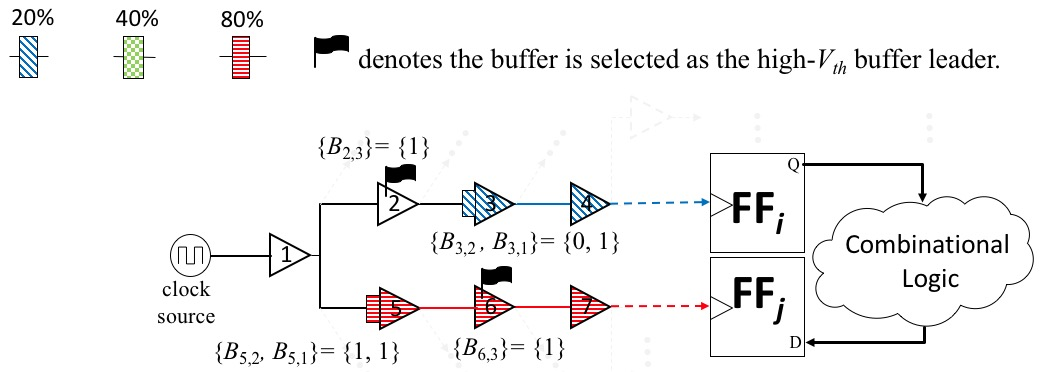
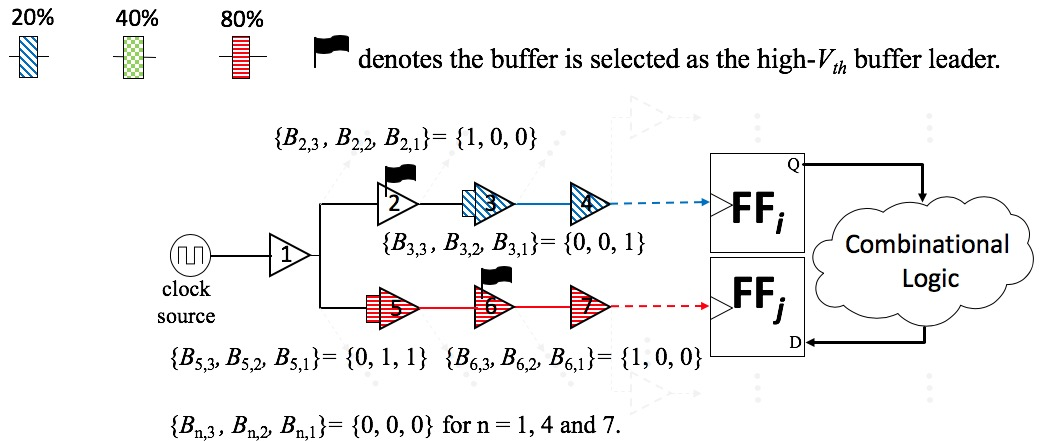
18/7/26 Modification after meeting: Use HTH aging model, renew flow chart, add Boolean variable in example fig...

diff --git a/DATE2018/framework.tex b/DATE2018/framework.tex
@@ -5,7 +5,7 @@ The overall flow of the proposed framework is depicted in Figure~\ref{fig:flow},
 \begin{enumerate}[leftmargin=*]
 	\item \textbf{Minimization of clock period:} The clock period can be minimized since the performance degradation of the logic circuit is \enquote{tolerated} as a result of useful clock skews. The minimum required clock period thus implies maximum level of aging tolerance. As depicted in Figure~\ref{fig:flow}, a binary search for optimal clock period is involved in the proposed framework.
 	\item \textbf{DCC deployment:} The problem of  DCC deployment is formulated as a Boolean Satisfiability (SAT) problem. Therefore, the key of our framework is to represent the problem in \textit{conjunctive normal form} (CNF). A CNF representation is a conjunction of one or more clauses, where each clause is a disjunction of one or more Boolean variables. Thanks to the efficiency of existing SAT solvers, the solution can be obtained efficiently. The end result of this formulation is the locations (in the existing clock tree) of DCCs, such that the required clock period of the given circuit under $n$-year BTI is minimized when aging-induced clock skews are considered. 
-	\item \textbf{High-$V_{th}$ assignment for clock buffers:} The problem of high-$V_{th}$ assignments for clock buffers is also formulated as a SAT-based problem, represented in CNF and solved by existing SAT solvers.
+	\item \textbf{High-$V_{th}$ assignment for clock buffers:} The problem of high-$V_{th}$ assignment for clock buffers is also formulated as a SAT-based problem, represented in CNF and solved by existing SAT solvers.
 \end{enumerate}
 
 \begin{figure}
@@ -127,8 +127,7 @@ where $C_{i\_aged}$ and $C_{j\_aged}$ denote aged $C_i$ and $C_j$, respectively.
 
 \noindent \textbf{\uline{Timing constraint: No existence of timing violation}}
 
-Given one clock period $T_c$ derived by binary search, one aging-critical path, and its associated clock network, all possible DCC deployments can be classified into 3 classes according to the number of DCCs used. Furthermore, due to the aforementioned DCC constraints, the SAT solver will only output a DCC deployment where there does not exist more than one DCC along any clock path. Thus, in the following discussion, the deployment with more than one DCC along a single clock path can be ignored. In each class, if the DCC deployment causes a timing violation within 10 years (i.e., the lifespan specification), then the deployment will be transformed into CNF clauses, such that the solver will not output the deployment as results. Here, we explain the generation of CNF clauses by using the example in Figure~\ref{fig:dccinsert}.
-
+Given one clock period $T_c$ derived by binary search, one aging-critical path, and its associated clock network, all possible DCC deployments can be classified into 3 classes according to the number of DCCs used. Furthermore, due to the aforementioned DCC constraints, the SAT solver will only output a DCC deployment where there does not exist more than one DCC along any clock path. Thus, in the following discussion, the deployment with more than one DCC along a single clock path can be ignored. In each class, if the DCC deployment causes a timing violation within 10 years (i.e., the lifespan specification), then the deployment will be transformed into CNF clauses, such that the solver will not output the deployment as results. Here, we explain the generation of CNF clauses by using the example in Figure~\ref{fig:dccinsert}.\\
 
 \noindent \textbf{Class 1:} No DCC is inserted on either clock path
 
@@ -143,8 +142,7 @@ equivalent to the following CNF clause:
 \begin{gather*}
 \left(B_{1,2} \lor B_{1,1} \lor B_{2,2} \lor B_{2,1} \lor \dotsb \lor B_{7,2} \lor B_{7,1} \right),
 \end{gather*}}
-should be generated such that the solver will not output the corresponding deployment in the result if the CNF is satisfiable. In this case, a total of 1 CNF clause is generated.
-
+should be generated such that the solver will not output the corresponding deployment in the result if the CNF is satisfiable. In this case, a total of 1 CNF clause is generated.\\
 
 \noindent \textbf{Class 2:} Inserting one DCC
 
@@ -173,7 +171,7 @@ This class targets buffers 2, 3, 4, 5, 6, 7. If the insertion of a 20\% DCC at b
 \begin{gather*}
 	(B_{3,2} \lor \neg B_{3,1} \lor B_{1,2} \lor B_{1,1} \lor B_{2,2} \lor B_{2,1} \lor B_{3,2} \dotsb  
 \lor B_{7,2} \lor B_{7,1}),
-\end{gather*}}should be generated such that the solver will not output the deployment in the result if the CNF is satisfiable. This class includes 6 candidates: buffers 2, 3, 4, 5, 6, 7, and each has 3 choices of DCCs. Therefore, a total of 18 CNF clauses will be generated in the worst case.
+\end{gather*}}should be generated such that the solver will not output the deployment in the result if the CNF is satisfiable. This class includes 6 candidates: buffers 2, 3, 4, 5, 6, 7, and each has 3 choices of DCCs. Therefore, a total of 18 CNF clauses will be generated in the worst case.\\
 
 
 \noindent \textbf{Class 3:} Inserting two DCCs on two clock paths respectively
@@ -195,9 +193,9 @@ Considering all of the above cases, a maximum number of 1 + 3 + 18 + 81 = 103 cl
 
 \subsection{Additive Improvement in Aging Tolerance: High-$V_{th}$ Assignment for Clock Buffers}
 \label{sec:VTA}
-In this subsection, the approach of high-$V_{th}$ assignment for clock buffers is incorporated in the proposed framework to further improve the aging tolerability of designs. Because the fragmentary high-$V_{th}$ assignment for clock buffers may decrease the feasibility/manufacturability of the proposed framework, we make a rule/definition: 
+In this subsection, the approach of high-$V_{th}$ assignment for clock buffers is incorporated in the proposed framework to further improve the aging tolerability of designs. Because the fragmentary high-$V_{th}$ assignment for clock buffers may decrease the feasibility/manufacturability of the proposed framework, we make a rule/definition:
 
-\noindent \textbf{Definition:} Once a clock buffer is selected as the \uline{high-$V_{th}$ buffer leader}, the $V_{th}$ of the selected buffer and its downstream buffers will be assigned to high $V_{th}$.
+\noindent \textbf{\uline{Definition 1} (\textit{High-$V_{th}$ buffer leader}):} Once a clock buffer is selected as the \textit{high-$V_{th}$ buffer leader}, the $V_{th}$ of the selected buffer and its downstream buffers will be assigned to high $V_{th}$.
 
 In this way, we avoid the cases that the $V_{th}$ of serial buffers along a clock path interlace between high and nominal $V_{th}$. Such a rule can suppress the occurrence of fragmentary $V_{th}$ assignments for clock buffers and thus can increase the feasibility of the proposed framework.
 
@@ -213,14 +211,15 @@ The problem of selecting high-$V_{th}$ buffer leaders is also formulated as a SA
   	(2)\quad & None &20\% &  \{0, 0, 1\} \\ 
   	(3)\quad & None &40\% &  \{0, 1, 0\} \\ 
   	(4)\quad & None &80\% &  \{0, 1, 1\} \\ 
-	(5)\quad & High-$V_{th}$ ($V_{th}^h$) & None & \{1, 0, 0\} \\ 
-  	(6)\quad & $V_{th}^h$ & 20\% &  \{1, 0, 1\} \\ 
-  	(7)\quad & $V_{th}^h$ & 40\% &  \{1, 1, 0\} \\ 
-  	(8)\quad & $V_{th}^h$ & 80\% &  \{1, 1, 1\} \\ 
+	(5)\quad & High-$V_{th}$ & None & \{1, 0, 0\} \\ 
+  	(6)\quad & High-$V_{th}$ & 20\% &  \{1, 0, 1\} \\ 
+  	(7)\quad & High-$V_{th}$ & 40\% &  \{1, 1, 0\} \\ 
+  	(8)\quad & High-$V_{th}$ & 80\% &  \{1, 1, 1\} \\ 
 \end{tabular}}
 
 Note that, if the buffer, located deep in the clock tree, is selected as the leader, then the count of affected buffers is limited, diminishing the benefit from high-$V_{th}$ assignment for aging tolerance. Therefore, as we do for DCC deployment, we similarly set a rule of prohibiting selecting buffer leaders at a clock tree level larger/deeper than a a specified boundary.
 \subsection{Constraints on High-$V_{th}$ Assignment for Clock Buffers}
+\begin{comment}
 \begin{figure}
 	\centering
 	%\includegraphics[width=1\columnwidth]{All_types_of_DCCs_and_leaders.png} %IEEE
@@ -228,6 +227,7 @@ Note that, if the buffer, located deep in the clock tree, is selected as the lea
 	\caption{Generalized DCC insertion and high-$V_{th}$ buffer leader selection, for a target pair of flip-flops}
 	\label{fig:leadertype}
 \end{figure}
+\end{comment}
 \begin{figure}[t!]
     \centering
     %\includegraphics[width=1.0\columnwidth]{2DCC_2Leader.png} %IEEE
@@ -236,7 +236,9 @@ Note that, if the buffer, located deep in the clock tree, is selected as the lea
     \label{fig:2dcc2leader}
 \end{figure}
 
-Figure~\ref{fig:leadertype} shows a generalized example of DCC insertion and leader selection. It is worth reminding that, because of DCC constraints, the possibility count of DCC deployments has been dropped from 16,384 to 103. However, for each DCC deployment, there are still up to 128 ($2^7$) possibilities of leader selections, for this pair of flip-flops. Hence, we set up the following constraints on the selections of high-$V_{th}$ buffer leaders:
+%Figure~\ref{fig:leadertype} shows a generalized example of DCC insertion and leader selection. It is worth reminding that, because of DCC constraints, the possibility count of DCC deployments has been dropped from 16,384 to 103. However, for each DCC deployment, there are still up to 128 ($2^7$) possibilities of leader selections, for this pair of flip-flops. Hence, we set up the following constraints on the selections of high-$V_{th}$ buffer leaders:
+
+In order to suppress the occurrence of fragmentary high-$V_{th}$ assignment for clock buffers, the following constraints are incorporated in the framework, such that SAT solver will not output the corresponding $V_{th}$ assignment in the result if the CNF is satisfiable.
 
 \noindent \textbf{\uline{Leader constraints: At most one buffer on a single clock path is selected as high-$V_{th}$ buffer leader.}}
 

diff --git a/DATE2018/related.tex b/DATE2018/related.tex
@@ -1,8 +1,8 @@
-\section{RELATED WORK AND PAPER CONTRIBUTION}
+=\section{RELATED WORK AND PAPER CONTRIBUTION}
 \label{sec:related}
 \subsection{Previous Work on Aging-Aware Optimization}
 \label{subsec:rw}
-To deal with aging phenomena, traditional design methods adopt guard-banding by adding extra timing margins, which in practice imply over-design and may be expensive. To avoid overly conservatism, the mitigation of aging-induced performance degradation can be formulated as a timing-constrained area minimization problem with consideration of aging effects. Existing aging-aware techniques basically follow this formulation. A novel technology mapper considering signal probabilities for NBTI was developed in~\cite{kumar2007nbti}. On average, 10\% area recovery and 12\% power saving are accomplished, as compared to the most pessimistic case assuming static NBTI on all PMOS transistors in the design. The authors of~\cite{paul2006temporal} proposed a gate sizing algorithm based on Lagrangian relaxation. An average of 8.7\% area penalty is required to ensure reliable operation for 10 years. Other methods related to gate or transistor sizing can be found in~\cite{kang2007efficient},~\cite{yang2007combating}.
+To deal with aging phenomena, traditional design methods adopt guard-banding by adding extra timing margins, which in practice imply over-design and may be expensive. To avoid overly conservatism, the mitigation of aging-induced performance degradation can be formulated as a timing-constrained area minimization problem with consideration of aging effects. Existing aging-aware techniques basically follow this formulation. A novel technology mapper considering signal probabilities for NBTI was developed in~\cite{kumar2007nbti}. On average, 10\% area recovery and 12\% power saving are accomplished, as compared to the most pessimistic case assuming static NBTI on all PMOS transistors in the design. The authors of~\cite{paul2006temporal} proposed a gate sizing algorithm based on Lagrangian relaxation. An average of 8.7\% area penalty is required to ensure reliable operation for 10 years. Other methods related to gate or transistor sizing can be found in~\cite{kang2007efficient, yang2007combating}.
 
 Aforementioned methods focus on mitigating the aging of logic networks only. There are some works~\cite{huang2013low, chakraborty2013skew,chen2013novel} addressing the aging problem of clock networks. Methodology of~\cite{chen2013novel} is based on $V_{th}$ assignment for clock buffers. The authors of ~\cite{huang2013low} and ~\cite{chakraborty2013skew} explore the use of alternative clock gating cells for clock-gated designs. On the other hand, two new clock gating cells were presented in~\cite{lai2014bti} to balance the delay degradation of clock signal propagation, which reduces aging-induced clock skews between ungated and gated clock branches. The above works~\cite{huang2013low, chakraborty2013skew,chen2013novel,lai2014bti} aim to minimize aging-induced clock skew instead of making it useful (i.e., assign specific clock skews in the designs to mitigate the aging-induced performance degradation).
 %Aforementioned methods focus on mitigating the aging of logic networks only. To address the aging problem of clock networks,~\cite{chen2013novel, huang2013low, chakraborty2013skew} aim to minimize aging-induced clock skews by balancing the aging effects on various clock sub-networks. While~\cite{chen2013novel} is based on $V_{th}$ assignment for clock buffers,~\cite{huang2013low},~\cite{chakraborty2013skew} explore the use of alternative clock gating cells for clock-gated designs. On the other hand, two new clock gating cells were presented in~\cite{lai2014bti} to balance the delay degradation of clock signal propagation, which reduces aging-induced clock skews between ungated and gated clock branches.
@@ -16,7 +16,7 @@ In this paper, we propose an optimization framework for aging tolerance. Our pro
 
 
 \begin{itemize}
-\item \textbf{\textit{Exploration of aging-induced clock skews for aging tolerance:}} Existing work on addressing aging-induced clock skews mainly attempts to minimize the skews. This paper presents the first work on \textit{exploring \enquote{useful} clock skews (i.e., making them useful)} for aging tolerance\footnote[1]{We do not minimize \enquote{absolute} performance degradation by directly mitigating the aging of logic networks; instead; we minimize \enquote{effective} performance degradation by joint $V_{th}$ assignment and manipulation of aging rates on clock networks to tolerate expected logic's aging based on timing borrowing, as a result of newly-designated clock skews in designs. Of course, one can mitigate the logic's aging itself by using existing techniques~\cite{kumar2007nbti, paul2006temporal, kang2007efficient, yang2007combating} before applying the proposed framework. This is however beyond the scope of this work and thus not particularly addressed in this paper.}.
+\item \textbf{\textit{Exploration of aging-induced clock skews for aging tolerance:}} Existing work on addressing aging-induced clock skews mainly attempts to minimize the skews. This paper presents the first work on \textit{exploring \enquote{useful} clock skews (i.e., making them useful)} for aging tolerance\footnote[1]{We do not minimize \enquote{absolute} performance degradation by directly mitigating the aging of logic networks; instead; we minimize \enquote{effective} performance degradation by joint (i) $V_{th}$ assignment and (ii) manipulation of aging rates on clock networks to tolerate expected logic's aging based on timing borrowing, as a result of newly-designated clock skews. Of course, one can mitigate the logic's aging itself by using existing techniques~\cite{kumar2007nbti, paul2006temporal, kang2007efficient, yang2007combating} before applying the proposed framework. This is however beyond the scope of this work and thus not particularly addressed in this paper.}.
 \item  \textbf{\textit{Problem formulation based on Boolean satisfiability and optimal solutions:}} The proposed formulation of making clock skew useful is transformed into a Boolean satisfiability (SAT) problem, and its optimal solution can be efficiently found by a SAT solver such as MiniSat.
 \item \textbf{\textit{Low design overhead and little design modification:}} Restrained by the synthesized clock tree whose topology and structure are basically determined, our post-CTS (clock tree synthesis) framework does not involve aggressive modification and thus does not incur significant design overhead.
 \end{itemize}

diff --git a/DATE2018/preliminary.tex b/DATE2018/preliminary.tex
@@ -3,28 +3,33 @@
 
 \subsection{Aging Prediction Model}
 \label{subsec:apm}
-Before discussing the proposed framework, we briefly introduce the aging (BTI degradation) model for logic gates/networks~\cite{wang2010impact},~\cite{wang2007efficient} used in our paper. This model enables us to analyze the long-term behavior of BTI-induced MOSFET degradation, with both aging and recovery mechanisms taken into account. First, the degradation of threshold voltage at a given time $t$ can be predicted as:
+Before discussing the proposed framework, we briefly introduce the aging (BTI degradation) model for logic gates/networks~\cite{wang2010impact, wang2007efficient, gomez2016early} used in our paper. This model enables us to analyze the long-term behavior of BTI-induced MOSFET degradation, with both aging and recovery mechanisms taken into account. First, the degradation of threshold voltage at a given time $t$ can be predicted as:
 \begin{equation}
 \label{eq:dtv}
-\Delta V_{th}=\left(\frac{\sqrt{K_v^2 \cdot T_{clk} \cdot \alpha}}{1-\beta_t^{1/_{2n}}}\right)^{2n}
+\Delta V_{th\_bti}=\left(\frac{\sqrt{K_v^2 \cdot T_{clk} \cdot \alpha}}{1-\beta_t^{1/_{2n}}}\right)^{2n}
 \end{equation}
-where $K_v$ is a function of temperature, electrical field, and carrier concentration, $\alpha$ is the stress probability, and $n$ is the time exponential constant, 0.2 for the used technology. The detailed explanation of each parameter can be found in~\cite{wang2010impact}.
-
-Next, the authors of~\cite{wang2007efficient} simplify this predictive model to be:
+where $\Delta V_{th\_bti}$ is the BTI-induced $V_{th}$ shift, $K_v$ is a function of threshold voltage ($V_{th}$), temperature, electrical field, and carrier concentration, $\alpha$ is the stress probability, and $n$ is the time exponential constant, 0.2 for the used technology. The detailed explanation of each parameter can be found in~\cite{wang2010impact}. Next, the authors of~\cite{gomez2016early} simplify this predictive model to be:
+%\begin{equation}
+%	\label{eq:dtv2}
+%	\Delta V_{th}=b\cdot  \alpha^n \cdot t^n = b \cdot \left(\alpha \cdot t \right)^n
+%\end{equation}
+%where $b = 3.9 \times 10^{-3} V \cdot s^{-1/5}$.
 \begin{equation}
-\label{eq:dtv2}
-\Delta V_{th}=b\cdot  \alpha^n \cdot t^n = b \cdot \left(\alpha \cdot t \right)^n
+	\centering
+	\Delta V_{th\_bti} = (1 - S_{v} \cdot \Delta V_{th\_fresh})  \cdot A \cdot \alpha^n \cdot t^n
+	\label{eq:cor}
 \end{equation}
-where $b = 3.9 \times 10^{-3} V \cdot s^{-1/5}$.
-
+where $\Delta V_{th\_fresh}$ is the fresh $V_{th}$ offset (e.g., the offset between high $V_{th}$ and nominal $V_{th}$), $\alpha$ is the stress duty cycle, $A$ is $3.9 \times 10^{-3} V \cdot s^{-1/5}$, $n$ is time exponential constant, 0.2 for used technology, and $S_{v}$ is the sensitivity factor extracted by fitting HSPICE simulation results in 45nm TSMC technology.
 Finally, the rising/falling propagation delay of a gate through the degraded P-type/N-type MOSFET can be derived as a first-order approximation:
 \begin{equation}
-\label{eq:pd}
-\tau^\prime = \tau + a \cdot \left(\alpha \cdot  t\right)^n
+	\label{eq:pd}
+	\Delta \tau \propto \Delta V_{th\_bti} + \Delta V_{th\_fresh}
+	%\tau^\prime = \tau + a \cdot \left(\alpha \cdot  t\right)^n
 \end{equation}
-where $\tau$ is the intrinsic delay of the gate without BTI degradation and $a$ is a constant.
+%where $\tau$ is the intrinsic delay of the gate without BTI degradation and $a$ is a constant.
+where $\Delta \tau$ is the shift of propagation delay.
 
-We apply Equation (\ref{eq:pd}) to calculate the delay of each gate under BTI, and further estimate the performance of a logic circuit. The coefficient $a$ in Equation (\ref{eq:pd}) for each gate type and each input pin is extracted by fitting HSPICE simulation results in 45nm, Predictive Technology Model (PTM). The simplified long-term model successfully predicts the MOSFET degradation, with less than 5\% loss of accuracy against cycle-by-cycle simulations~\cite{wang2010impact}.
+We apply Equation (\ref{eq:pd}) to calculate the delay of each gate under BTI, and further estimate the performance of a logic circuit. The coefficient $a$ in Equation (\ref{eq:pd}) for each gate type and each input pin is extracted by fitting HSPICE simulation results in 45nm, Predictive Technology Model (PTM). The simplified long-term model successfully predicts the MOSFET degradation, with less than 5\% loss of accuracy against cycle-by-cycle simulations~\cite{wang2007efficient, wang2010impact, gomez2016early}.
 
 \subsection{Duty-Cycle Converter (DCC)}
 \begin{figure}
@@ -58,4 +63,4 @@ The unit we use to change the clock duty cycle is duty-cycle converter (DCC), wh
 
 \subsection{Practical Considerations}
 \label{subsec:tpc}
-The diagram on the top of Figure~\ref{fig:dccreduc} shows the primitive design of a DCC, consisting of an inverter and an AND gate. In practice, the AND gate is implemented by a NAND gate feeding an inverter. As mentioned earlier, when inserting a DCC, it is inserted at the input of a buffer, which is a pair of inverters in practice. Therefore, we can actually use the diagram on the bottom of Figure~\ref{fig:dccreduc} to realize the insertion of a DCC. More specifically, we use it as a new cell to \enquote{replace} a buffer when a DCC is needed. By doing so, the cost of a single DCC can be significantly reduced and not much more expensive than the cost of inserting a buffer for clock skew scheduling. 
+The diagram on the top of Figure~\ref{fig:dccreduc} shows the primitive design of a DCC, consisting of an inverter and an AND gate. In practice, the AND gate is implemented by a NAND gate feeding an inverter. As mentioned earlier, when inserting a DCC, it is inserted at the input of a buffer, which is a pair of inverters in practice. Therefore, we can actually use the diagram on the bottom of Figure~\ref{fig:dccreduc} to realize the insertion of a DCC. More specifically, we use it as a new cell to \enquote{replace} a buffer when a DCC is needed. By doing so, the cost of a single DCC can be significantly reduced.% and not much more expensive than the cost of inserting a buffer for clock skew scheduling. 

diff --git a/DATE2018/motivate.tex b/DATE2018/motivate.tex
@@ -80,9 +80,9 @@ As it can be seen, we can reduce the required $T_c$ from 115.5 to 108.5 (dominat
 
 \subsection{High-$V_{th}$ Assignment for Clock Buffers}
 \label{sec:mot:exp2}
-For the circuit in Figure~\ref{fig:sub:example}, the approach of high-$V_{th}$ (denoted by $V_{th}^{h}$) assignment for clock buffers is incorporated to explore more beneficial clock skew, i.e., further optimize/reduce required $T_c$. 
+For the circuit in Figure~\ref{fig:sub:example}, the approach of high-$V_{th}$ assignment for clock buffers is incorporated to explore more beneficial clock skew, i.e., further optimize/reduce required $T_c$. 
 
-Follow the previous DCC deployment for manipulation of aging, that is, 20\%DCC and 80\% DCC inserted at the inputs of buffers 1 and 2, respectively, we can alter the threshold voltage of clock buffers to $V^{h}_{th}$ from buffer 2 to \ce{FF_Y} and \ce{FF_Z} so as to achieve a better utilization of clock skew. To include the timing information of $V_{th}^{h}$ buffers in the setup-time constraint, we assume that, the fresh/intrinsic delay of $V_{th}^{h}$ buffer is 1.15X longer than that of nominal buffer derived from power-law model, and aging rates of $V_{th}^{h}$ buffers, receiving clock duty cycles of 80\%, are 8\%\footnote{The aging rates of $V_{th}^{h}$ buffers are lower than those of nominal buffers, because the higher/lower $V_{th}$ leads to lower/higher aging rate.}, respectively. Consider the new aging factors in the setup-time constraints on \ce{L_{XY}} and \ce{L_{YZ}}:
+Follow the previous DCC deployment for manipulation of aging, that is, 20\%DCC and 80\% DCC inserted at the inputs of buffers 1 and 2, respectively, we can alter the threshold voltage of clock buffers to $V^{h}_{th}$ from buffer 2 to \ce{FF_Y} and \ce{FF_Z} so as to achieve a better utilization of clock skew. To include the timing information of $V_{th}^{h}$ buffers in the setup-time constraint, we assume that, the fresh/intrinsic delay of $V_{th}^{h}$ buffer is 1.15X longer than that of nominal buffer derived from power-law model, and aging rates of $V_{th}^{h}$ buffers, receiving clock duty cycles of 80\%, are 8\%\footnote{The aging rates of high-$V_{th}$ buffers are lower than those of nominal buffers, because the higher/lower $V_{th}$ leads to lower/higher aging rate.}, respectively. Consider the new aging factors in the setup-time constraints on \ce{L_{XY}} and \ce{L_{YZ}}:
 \begin{equation}
 	\fontsize{9}{9.6}\selectfont \ce{L_{XY}}:\quad \textbf{1.09}C_X+1.2T_{cq}+1.15D_{XY}+1.2T_{su}<(\textbf{1.15} \times \textbf{1.08})C_Y+T_c
 	\label{eq:lxy3}

diff --git a/DATE2018/exp.tex b/DATE2018/exp.tex
@@ -3,7 +3,7 @@
 \subsection{Experimental Setting}
 The proposed framework for aging tolerance is implemented in C++ and the SAT-based formulation is solved by MiniSat on a 2.83GHz Intel Quad-Core CPU workstation running Linux. The benchmark circuits are chosen from the IWLS'05 and ISCAS'89 suites. The technology used is TSMC 45nm GP standard cell series.
 
-Under 10-year BTI, the aging rates of clock buffers were obtained from HSPICE. The aging rates of clock buffers with duty cycles of 20\%, 40\%, 50\%, and 80\% are 8.51\%, 12.08\%, 13.51\%, and 16.41\% respectively and the aging rate of logic is obtained by using the predictive model presented in~\cite{wang2010impact},~\cite{wang2007efficient} (detailed in Section~\ref{subsec:apm}).
+Under 10-year BTI, the aging rates of clock buffers were obtained from HSPICE. The aging rates of clock buffers with duty cycles of 20\%, 40\%, 50\%, and 80\% are 8.51\%, 12.08\%, 13.51\%, and 16.41\% respectively and the aging rate of logic is obtained by using the predictive model presented in~\cite{wang2010impact, wang2007efficient, gomez2016early} (detailed in Section~\ref{subsec:apm}).
 
 
 \begin{table*}
